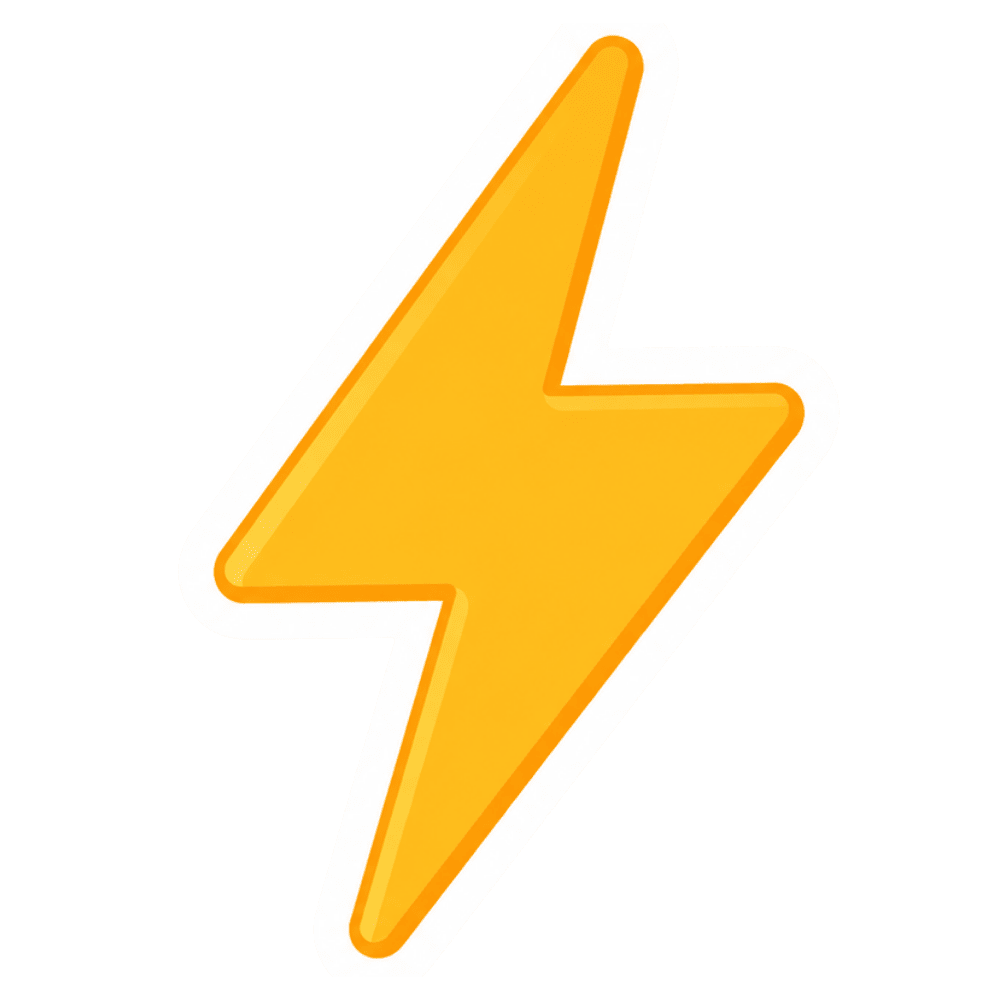
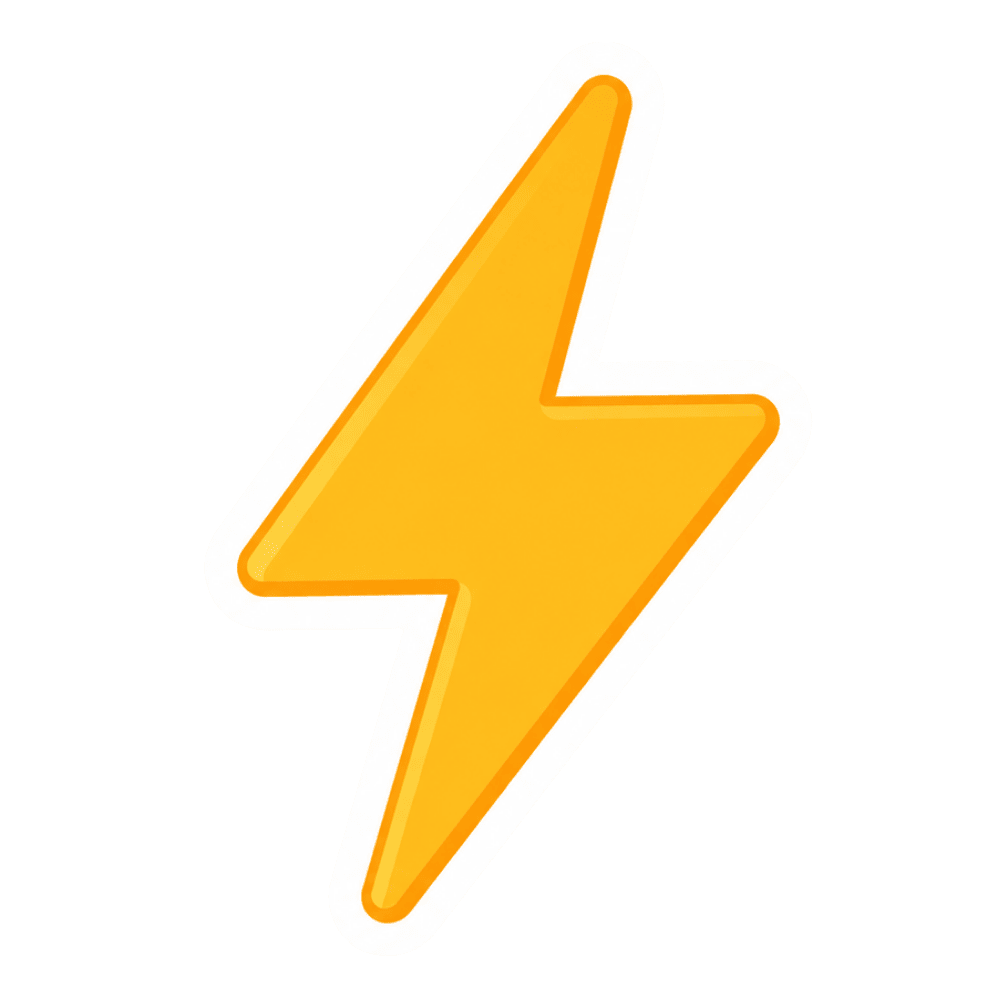
C1

diff --git a/lib/features/journal/widgets/journal_input_cues.dart b/lib/features/journal/widgets/journal_input_cues.dart
@@ -34,15 +34,18 @@ class JournalInputCues extends StatelessWidget {
             ],
           ),
           SizedBox(height: 12.h),
-          // Three prompt cards side by side.
-          Row(
-            crossAxisAlignment: CrossAxisAlignment.stretch,
-            children: [
-              for (var i = 0; i < JournalMockData.cues.length; i++) ...[
-                if (i > 0) SizedBox(width: 10.w),
-                Expanded(child: _CueCard(cue: JournalMockData.cues[i])),
+          // IntrinsicHeight lets CrossAxisAlignment.stretch work inside an
+          // unbounded-height context (SingleChildScrollView).
+          IntrinsicHeight(
+            child: Row(
+              crossAxisAlignment: CrossAxisAlignment.stretch,
+              children: [
+                for (var i = 0; i < JournalMockData.cues.length; i++) ...[
+                  if (i > 0) SizedBox(width: 10.w),
+                  Expanded(child: _CueCard(cue: JournalMockData.cues[i])),
+                ],
               ],
-            ],
+            ),
           ),
         ],
       ),

diff --git a/ios/Runner/AppDelegate.swift b/ios/Runner/AppDelegate.swift
@@ -7,6 +7,7 @@ import UIKit
     _ application: UIApplication,
     didFinishLaunchingWithOptions launchOptions: [UIApplication.LaunchOptionsKey: Any]?
   ) -> Bool {
+    UNUserNotificationCenter.current().delegate = self as? UNUserNotificationCenterDelegate
     return super.application(application, didFinishLaunchingWithOptions: launchOptions)
   }
 
